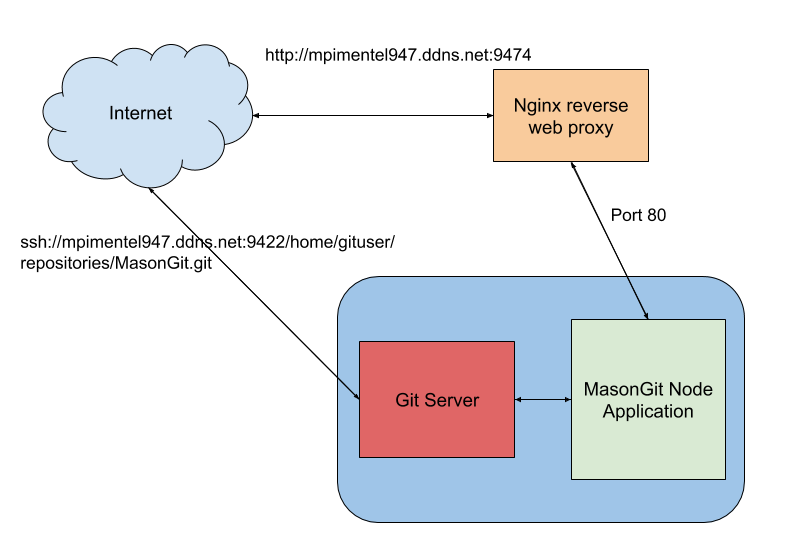
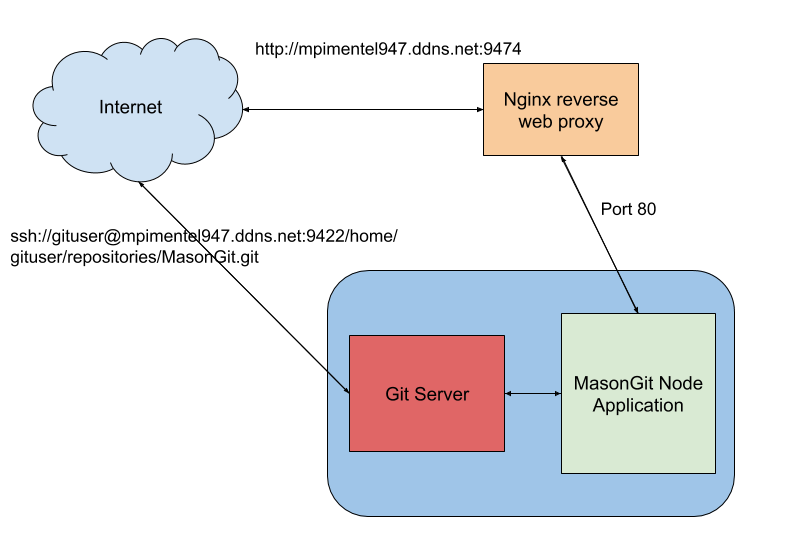
Fixed DDNS information

diff --git a/README.md b/README.md
@@ -10,7 +10,7 @@ This project was intended to be a complete Git ecosystem and has 2 components:
 ## Git server
 
 It is currently possible to access a git repository (clone, push, pull) I have set up at:
-ssh://mpimentel947.ddns.net:9422/home/gituser/repositories/MasonGit.git
+ssh://gituser@mpimentel947.ddns.net:9422/home/gituser/repositories/MasonGit.git
 
 user: gituser<br>
 passwd: masongit
